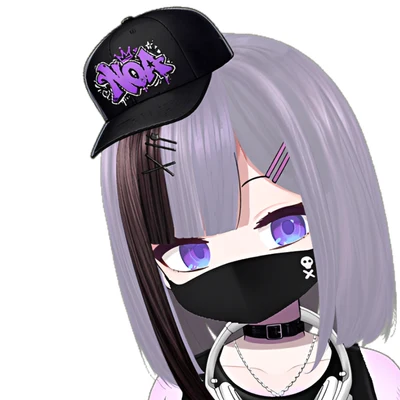
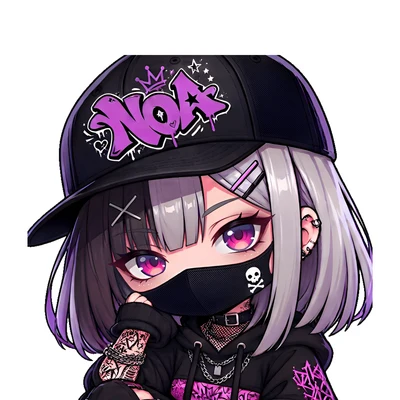
サポーター：NOA♪のアイコンと紹介文を差し替え（本人依頼・Vモデル消失のため）

diff --git a/vtuber.html b/vtuber.html
@@ -150,7 +150,7 @@
         <article class="vt-card">
           <img class="vt-card__photo" src="assets/img/vtuber/noa.webp" alt="NOA♪" width="200" height="200" loading="lazy" />
           <h3 class="vt-card__name">NOA♪</h3>
-          <p class="vt-card__bio">PUBGでVStreamerの頂点を目指し活動中。</p>
+          <p class="vt-card__bio">ゲームはPUBG一筋で独特のプレイスタイルが特徴。PUBGでVStreamerの頂点を目指す!!</p>
           <div class="vt-card__links">
             <a href="https://x.com/NOAxxxPUBG" target="_blank" rel="noopener">X</a>
             <a href="https://www.twitch.tv/mvk_noa" target="_blank" rel="noopener">Twitch</a>
